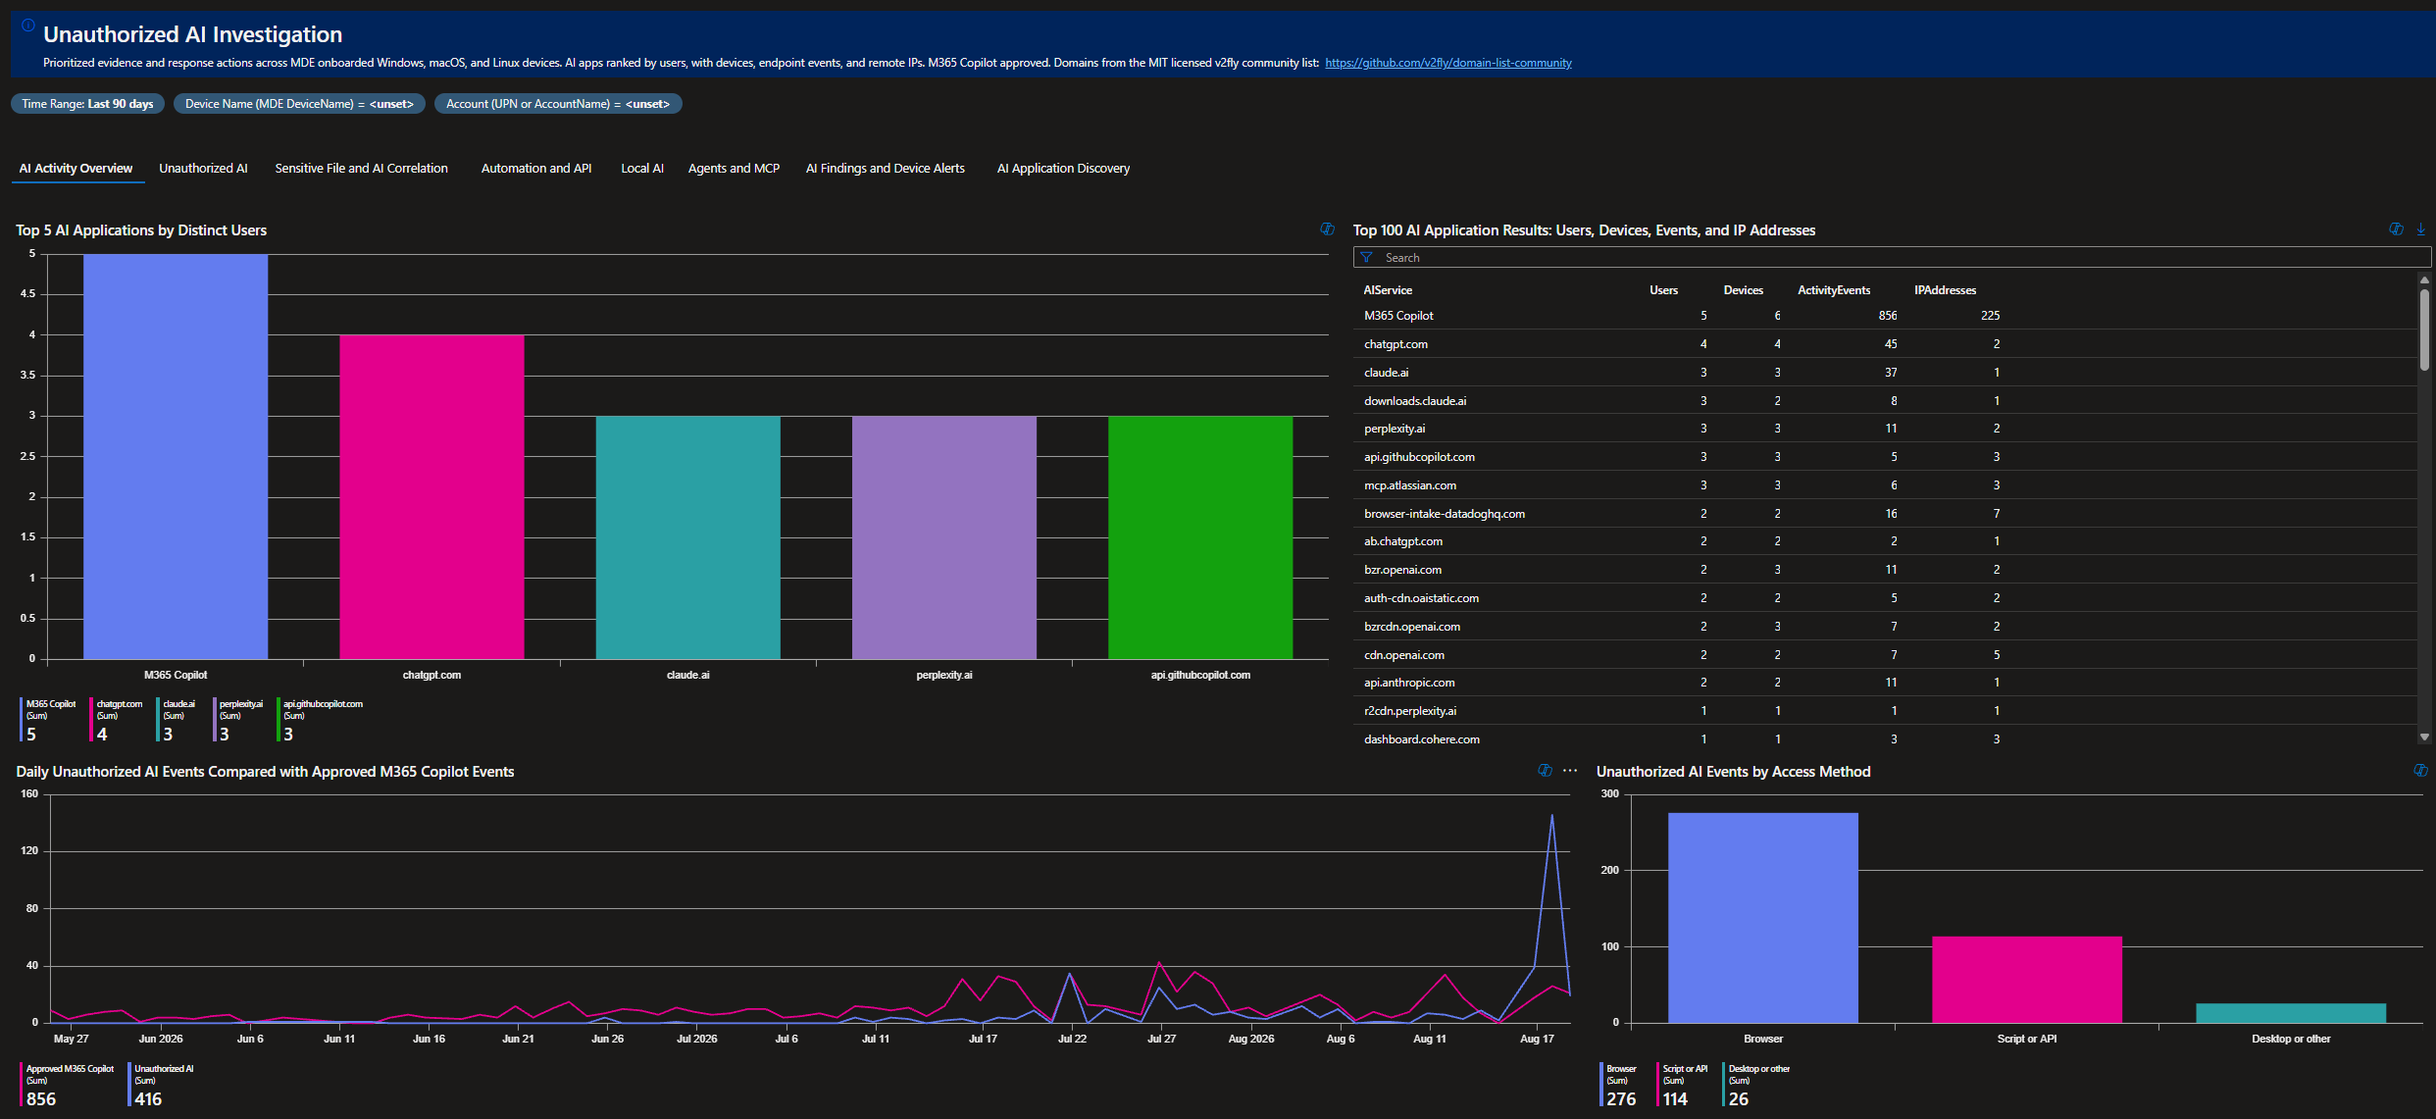
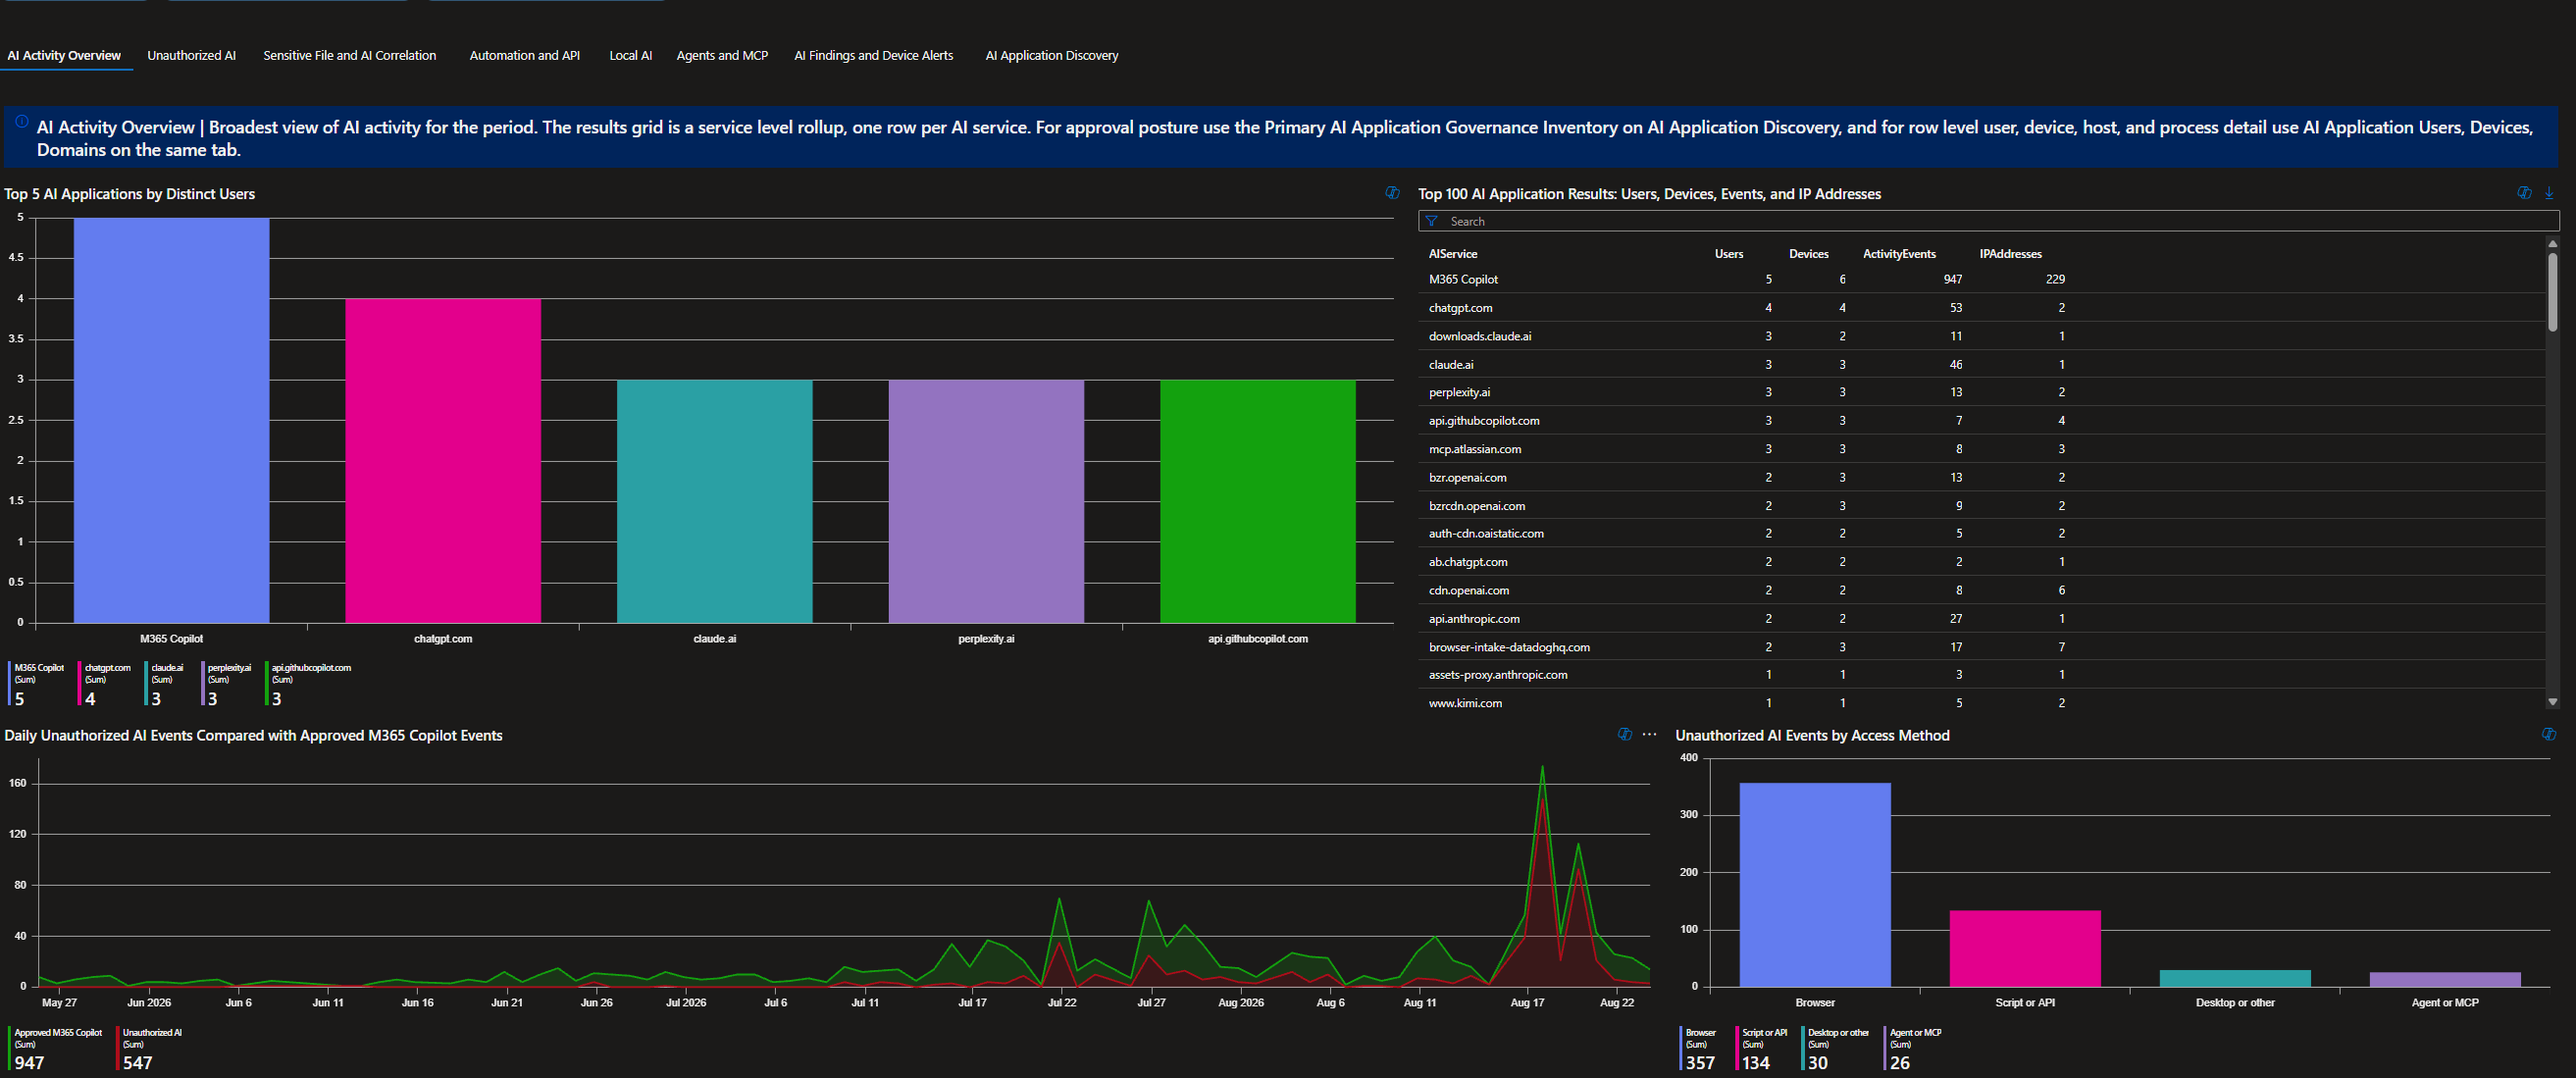
Refresh Overview and Agents and MCP screenshots for new area trend, Agent or MCP access method, and agent trend and destination tiles; add second agents evidence image and README panels

diff --git a/Workbooks/Cross-Platform-AI-Activity-Workbook/README.md b/Workbooks/Cross-Platform-AI-Activity-Workbook/README.md
@@ -62,7 +62,7 @@ The device and account filters are text filters. They are not identity pickers. 
 | Top 5 AI Applications by Distinct Users | Applications ranked by distinct observed users | Identify the services with the widest user reach |
 | Top 100 AI Application Results: Users, Devices, Events, and IP Addresses | Detailed application results with affected identities and infrastructure | Pivot from a service to users, devices, events, and addresses |
 | Daily Unauthorized AI Events Compared with Approved M365 Copilot Events | Daily comparison of nonapproved activity and approved Copilot activity | Identify spikes, policy changes, or unusual periods |
-| Unauthorized AI Events by Access Method | Browser, script, process, API, or related access categories | Decide whether the next investigation step belongs in browser, process, or network telemetry |
+| Unauthorized AI Events by Access Method | Browser, Script or API, Desktop or other, and a dedicated Agent or MCP category | Decide whether the next investigation step belongs in browser, script, agent, or network telemetry |
 
 ![AI Activity Overview tab](support/screenshots/01-ai-activity-overview.png)
 
@@ -136,6 +136,8 @@ The device and account filters are text filters. They are not identity pickers. 
 
 | Panel | What it shows | Analyst use |
 | --- | --- | --- |
+| Daily Agent Executions and MCP Invocations | Daily agent process executions compared with MCP invocations | Spot volume trends and unusual spikes in agent and MCP activity |
+| Top 5 Unauthorized AI Destinations from Agents and MCP | Nonapproved AI destinations reached by agent and MCP processes | Identify where agents and MCP are sending traffic |
 | Top 5 Detected Agent Tools and MCP Invocations | Tools and MCP related activity ranked by event volume | Identify the most common agent paths |
 | Top 5 Accounts Running Agents or MCP Commands | Accounts associated with agent or MCP activity | Assign ownership and authorization review |
 | Top 5 Devices Running Agents or MCP Commands | Devices associated with agent or MCP activity | Scope device investigation |
@@ -144,6 +146,8 @@ The device and account filters are text filters. They are not identity pickers. 
 | Agent Instructions, MCP Configuration, and Command Evidence | Instruction files, configuration files, and command evidence | Review tool permissions and connected services |
 
 ![Agents and MCP tab](support/screenshots/06-agents-and-mcp.png)
+
+![Agents and MCP evidence grids](support/screenshots/06b-agents-and-mcp-evidence.png)
 
 **Important interpretation:** A request to an MCP URL is not by itself proof of a successful MCP session. Confirm the initiating process, account, command, authentication result, and server endpoint where available.
 
